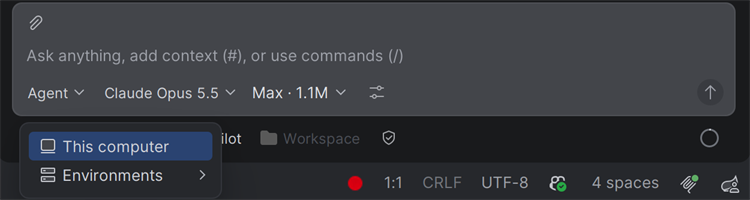
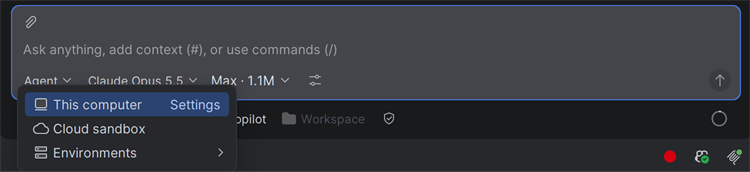
Show browser use and the cloud sandbox in lessons 2 and 3
- Lesson 2: browser use works on GitHub Copilot 1.21.1 once Send usage telemetry is on and IntelliJ restarts. This version has no Enable Browser Use setting, and the chat box lists /skill:browser-use. Replace the "you don't have it yet" text with the real steps, and add screenshots of the command list and of Copilot reading the jacket prices in Chrome.
- Lesson 3: the environment picker lists Cloud sandbox. Replace the rollout hedges, and retake its screenshot.
- README: previews reach you through experiments, which are off without telemetry, so keep Send usage telemetry on.

Tested on Windows with IntelliJ IDEA 2026.3 and GitHub Copilot 1.21.1 stable.

diff --git a/03-secure-execution/SOLUTION.md b/03-secure-execution/SOLUTION.md
@@ -22,7 +22,7 @@ The supplier's price checker does its job, and then reads a file in your home fo
 
 First, make the pretend secret, as in the README's [Get started](README.md#get-started). It's a canary: if a command can read it, it could read your real secrets too.
 
-Then run the supplier's tool twice, with the same prompt: once without the sandbox, to see it read the secret, and once in the sandbox, to see the same read fail. Both runs use the same prompt and read the same path, so the sandbox is what makes the difference. Last, see how an admin makes the sandbox a rule, try the cloud sandbox if you have it, and clean up.
+Then run the supplier's tool twice, with the same prompt: once without the sandbox, to see it read the secret, and once in the sandbox, to see the same read fail. Both runs use the same prompt and read the same path, so the sandbox is what makes the difference. Last, see how an admin makes the sandbox a rule, try the cloud sandbox, and clean up.
 
 ## 1. Run the tool without the sandbox
 
@@ -109,11 +109,9 @@ If your organization already manages Copilot on that computer, for example with 
 
 The local sandbox limits what a command can reach on your computer. The cloud sandbox takes your computer out of the picture.
 
-The cloud sandbox is in preview, and rolling out in phases. In the row under the chat box, change **This computer** to **Cloud sandbox**. The session runs on a Linux computer that GitHub hosts, in a clone of your GitHub fork, so your local files aren't there at all. The cloud session's model picker is different from a **This computer** session. Unlike the local sandbox, the cloud sandbox is billed by usage: compute and memory while the session runs, and storage while it's stopped. See [Running a session in a cloud sandbox](https://docs.github.com/en/copilot/how-tos/copilot-in-your-ide/chat-with-copilot/chat-in-ide?tool=jetbrains#running-a-session-in-a-cloud-sandbox) and [About cloud sandboxes for GitHub Copilot](https://docs.github.com/en/copilot/concepts/security-governance-and-network-settings/about-cloud-sandboxes).
+The cloud sandbox is in preview. In the row under the chat box, change **This computer** to **Cloud sandbox**. If it isn't listed, turn on **Send usage telemetry** in Settings → GitHub Copilot → General, and restart IntelliJ: previews reach you through experiments, which are off without telemetry. The session runs on a Linux computer that GitHub hosts, in a clone of your GitHub fork, so your local files aren't there at all. The cloud session's model picker is different from a **This computer** session. Unlike the local sandbox, the cloud sandbox is billed by usage: compute and memory while the session runs, and storage while it's stopped. See [Running a session in a cloud sandbox](https://docs.github.com/en/copilot/how-tos/copilot-in-your-ide/chat-with-copilot/chat-in-ide?tool=jetbrains#running-a-session-in-a-cloud-sandbox) and [About cloud sandboxes for GitHub Copilot](https://docs.github.com/en/copilot/concepts/security-governance-and-network-settings/about-cloud-sandboxes).
 
-![The environment picker under the chat box, listing This computer and Environments](../screenshots/03-secure-execution/environment-picker.png)
-
-*The environment picker. **Cloud sandbox** is listed here once it reaches your account.*
+![The environment picker under the chat box, listing This computer, Cloud sandbox and Environments](../screenshots/03-secure-execution/environment-picker.png)
 
 ## 5. Clean up
 

diff --git a/02-tooling/SOLUTION.md b/02-tooling/SOLUTION.md
@@ -129,17 +129,24 @@ IntelliJ renames the method and every call to it, so the rename changes only `Ca
 
 The tests check the page's HTML. To see the new prices the way a shopper does, let Copilot open the store in your browser.
 
-Browser use is a preview. It needs Node.js 22 or later, and Chrome or Edge with the **GitHub Copilot** browser extension. GitHub's guide, [Using GitHub Copilot in your IDE to interact with your browser](https://docs.github.com/en/copilot/how-tos/copilot-in-your-ide/use-copilot-agents/browser-use), covers JetBrains IDEs. In short:
+Browser use is a preview. It needs Node.js 22 or later, and Chrome or Edge with the [GitHub Copilot](https://chromewebstore.google.com/detail/github-copilot/hblomdgalaelcilcdepgohfcogjiijhe) browser extension. GitHub's guide, [Using GitHub Copilot in your IDE to interact with your browser](https://docs.github.com/en/copilot/how-tos/copilot-in-your-ide/use-copilot-agents/browser-use), covers JetBrains IDEs. In short:
 
-1. If your version has **Enable Browser Use**, under Settings → GitHub Copilot → Chat, turn it on, and click **OK**. To find it, search Settings for Browser Use. Then type `/` in the chat box: if the list doesn't have `/browser-use`, you don't have browser use yet.
-2. In 02-tooling, start the store with `./mvnw spring-boot:run` (on Windows, `.\mvnw.cmd spring-boot:run`).
-3. In a new session, send:
+1. In Settings → GitHub Copilot → General, check that **Send usage telemetry** is on. Previews such as browser use reach you through experiments, which are off without telemetry. If you turn it on, click **OK**, and restart IntelliJ: choose Help → Find Action, type `Restart IDE`, and press Enter. If Settings has **Enable Browser Use** (search Settings for Browser Use), turn that on too.
+2. Open Chrome or Edge, the one with the extension, and leave it open. Copilot can only use a browser that's running.
+3. In a new session, type `/browser-use` in the chat box. The list shows `/skill:browser-use`, so you have browser use. Clear the chat box.
+
+   ![The chat box's command list, showing /skill:browser-use](../screenshots/02-tooling/browser-use-skill.png)
+
+4. In 02-tooling, start the store with `./mvnw spring-boot:run` (on Windows, `.\mvnw.cmd spring-boot:run`).
+5. In the same session, send:
 
    > Open http://localhost:8080 and tell me the price of each jacket.
 
    A permission prompt appears for each site Copilot opens: allow it. The browser also shows a banner that it's being debugged. That's expected.
 
-Copilot uses your browser when a task needs it, as here. You can also use the `/browser-use` command to tell it to use your browser. If you don't have browser use, or no browser is connected, Copilot may read the page's HTML with a terminal command instead, as the tests do. To see the page the way a shopper does, open <http://localhost:8080> yourself.
+   ![Copilot's chat, using browser-use tools to read the jacket prices: $79, $111 and $119](../screenshots/02-tooling/browser-use.png)
+
+Copilot uses your browser when a task needs it, as here. You can also pick `/skill:browser-use` in the chat box to tell it to use your browser. If you don't have browser use, or no browser is connected, Copilot may read the page's HTML with a terminal command instead, as the tests do. To see the page the way a shopper does, open <http://localhost:8080> yourself.
 
 Stop the store with **Ctrl+C** when you're done.
 

diff --git a/03-secure-execution/README.md b/03-secure-execution/README.md
@@ -38,7 +38,7 @@ To see what's managed on your computer, open **Policy Diagnostics** from the Opt
 
 ### Cloud sandbox, optional
 
-The local sandbox keeps Copilot's commands away from your files. The cloud sandbox goes further: it runs the whole session on a computer that GitHub hosts, in a clone of your GitHub fork, so your local files aren't there at all. Its model picker is different from a **This computer** session. Pick it in the environment picker under the chat box. It's in preview, and you might not have it yet. Unlike the local sandbox, it's billed by usage: compute and memory while the session runs, and storage while it's stopped. See [About cloud sandboxes for GitHub Copilot](https://docs.github.com/en/copilot/concepts/security-governance-and-network-settings/about-cloud-sandboxes).
+The local sandbox keeps Copilot's commands away from your files. The cloud sandbox goes further: it runs the whole session on a computer that GitHub hosts, in a clone of your GitHub fork, so your local files aren't there at all. Its model picker is different from a **This computer** session. Pick it in the environment picker under the chat box. It's in preview: if the picker doesn't list it, turn on **Send usage telemetry** in Settings → GitHub Copilot → General, and restart IntelliJ. Previews reach you through experiments, which are off without telemetry. Unlike the local sandbox, it's billed by usage: compute and memory while the session runs, and storage while it's stopped. See [About cloud sandboxes for GitHub Copilot](https://docs.github.com/en/copilot/concepts/security-governance-and-network-settings/about-cloud-sandboxes).
 
 ## Get started
 
@@ -98,7 +98,7 @@ The tool reads `supplier/prices-2027-02.csv`, so it must run from the `03-secure
 
 If a step says **Invoked**, IntelliJ's MCP server ran the tool, outside the sandbox. Turn the server off, and try again in a new session.
 
-If the sandboxed run fails with no `OK` line, the local sandbox may not work on your computer: check the requirements in [Get started](#get-started). Use the cloud sandbox instead, which is billed by usage: in the environment picker under the chat box, change **This computer** to **Cloud sandbox**, and send the same prompt. Your files aren't on that computer at all, so the tool can't read `canary.txt` there either. If you don't have the cloud sandbox yet, read the sandboxed run in the [solution](SOLUTION.md#2-run-it-in-the-sandbox).
+If the sandboxed run fails with no `OK` line, the local sandbox may not work on your computer: check the requirements in [Get started](#get-started). Use the cloud sandbox instead, which is billed by usage: in the environment picker under the chat box, change **This computer** to **Cloud sandbox**, and send the same prompt. Your files aren't on that computer at all, so the tool can't read `canary.txt` there either. If the picker doesn't list **Cloud sandbox**, read the sandboxed run in the [solution](SOLUTION.md#2-run-it-in-the-sandbox).
 
 </details>
 

diff --git a/02-tooling/README.md b/02-tooling/README.md
@@ -42,7 +42,7 @@ Turn it on in Settings → MCP Server (in some versions, under AI), or search Se
 
 ### Browser use, optional
 
-The tests check the page's HTML, but you might also want to see a change the way a shopper does. With browser use, Copilot opens pages in your own browser and reads them, so it can check a change in the running app. It's a preview, and still rolling out. It needs Node.js 22 or later, and Chrome or Edge with the GitHub Copilot browser extension. If your version has **Enable Browser Use**, under Settings → GitHub Copilot → Chat (search Settings for Browser Use), turn it on. Then type `/` in the chat box: if the list doesn't have `/browser-use`, you don't have browser use yet. Copilot uses your browser when a task needs it, or when you use the `/browser-use` command. See [Using GitHub Copilot in your IDE to interact with your browser](https://docs.github.com/en/copilot/how-tos/copilot-in-your-ide/use-copilot-agents/browser-use).
+The tests check the page's HTML, but you might also want to see a change the way a shopper does. With browser use, Copilot opens pages in your own browser and reads them, so it can check a change in the running app. It's a preview. It needs Node.js 22 or later, and Chrome or Edge with the [GitHub Copilot browser extension](https://chromewebstore.google.com/detail/github-copilot/hblomdgalaelcilcdepgohfcogjiijhe), open while Copilot works. Previews reach you through experiments, which are off without telemetry: in Settings → GitHub Copilot → General, keep **Send usage telemetry** on, and restart IntelliJ if you turn it on. If Settings has **Enable Browser Use** (search Settings for Browser Use), turn that on too. To check, type `/browser-use` in the chat box: the list shows `/skill:browser-use`. Copilot uses your browser when a task needs it, or when you pick that command. See [Using GitHub Copilot in your IDE to interact with your browser](https://docs.github.com/en/copilot/how-tos/copilot-in-your-ide/use-copilot-agents/browser-use).
 
 ## Get started
 

diff --git a/README.md b/README.md
@@ -45,7 +45,7 @@ Fork this repo, clone your fork, and open the folder in IntelliJ IDEA. Then star
 
 Each lesson's folder has the challenge in `README.md` and the solution in `SOLUTION.md`. [.github/copilot-instructions.md](.github/copilot-instructions.md) asks Copilot to stay inside the lesson's folder: it's a request, not a restriction. Lessons 1, 2, 4 and 5 are copies of Trail Store, a small Spring Boot application. In lessons 1, 2 and 4, failing tests show what to fix. Lesson 5's copy is an old one, for Copilot to upgrade. The lessons don't depend on each other.
 
-Browser use, the cloud sandbox and Copilot Fusion are still rolling out, so you might not have them yet. You can still finish every lesson without them.
+Browser use, the cloud sandbox and Copilot Fusion are previews, and Fusion isn't in every plan. Previews reach you through GitHub's experiments, which are off without telemetry, so keep **Send usage telemetry** on, in Settings → GitHub Copilot → General. You can still finish every lesson without them.
 
 ### How to work through a lesson
 
